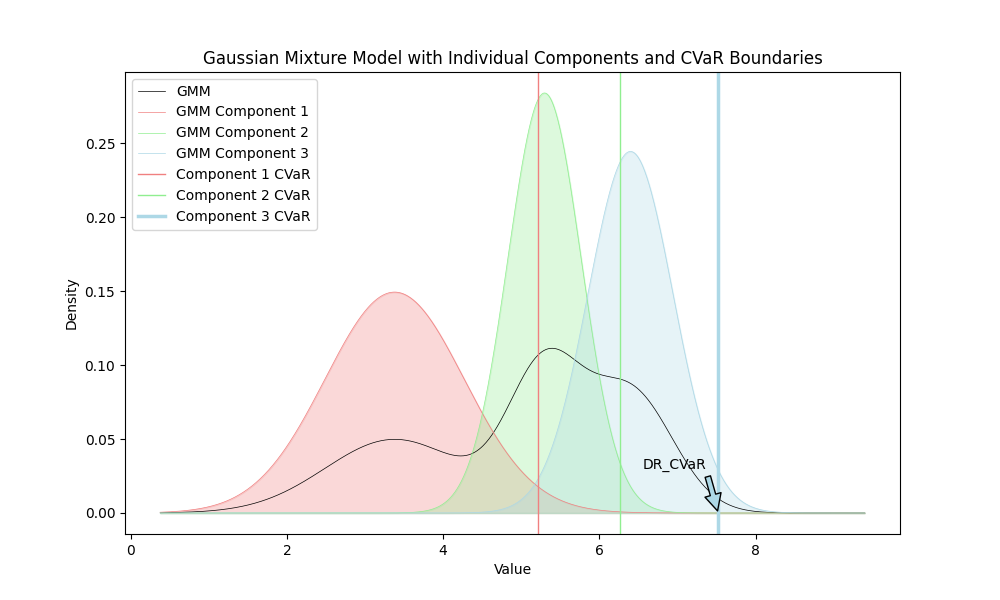
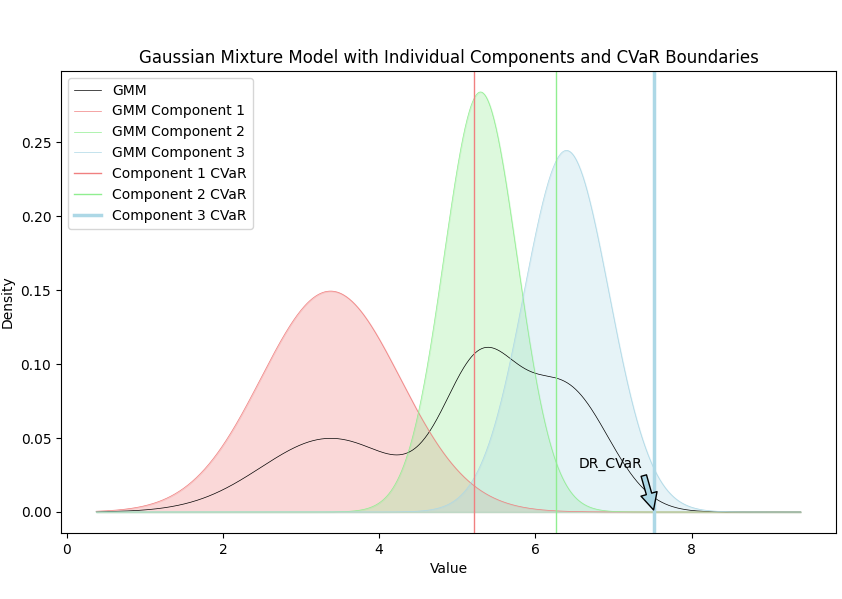
update README

diff --git a/README.md b/README.md
@@ -87,8 +87,10 @@ pip install -r requirements.txt
 ### GMM Plot
 ![GMM Plot](image/gmm_plot.png)
 
-### GMM with DR-CVaR Boundaries
+### GMM with DR-CVaR Boundaries example 1
 ![GMM with CVaR Boundaries example 1](image/gmm_cvar_plot.png)
+
+### GMM with DR-CVaR Boundaries example 2
 ![GMM with CVaR Boundaries example 2](image/gmm_cvar.png)
 
 
